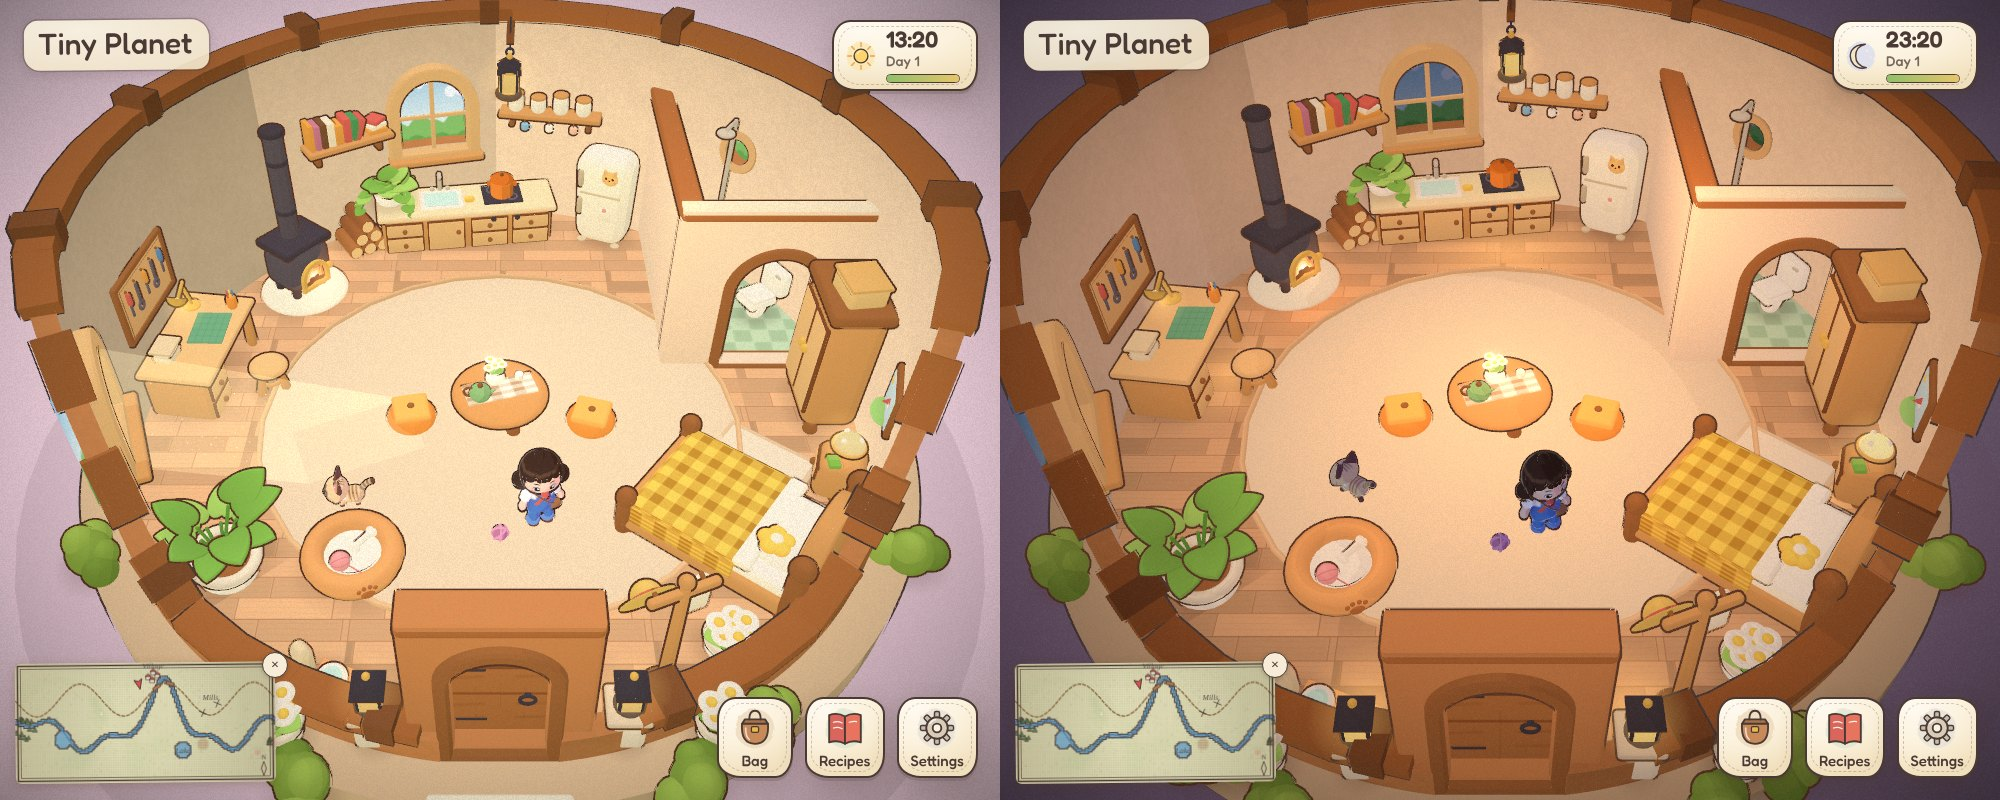
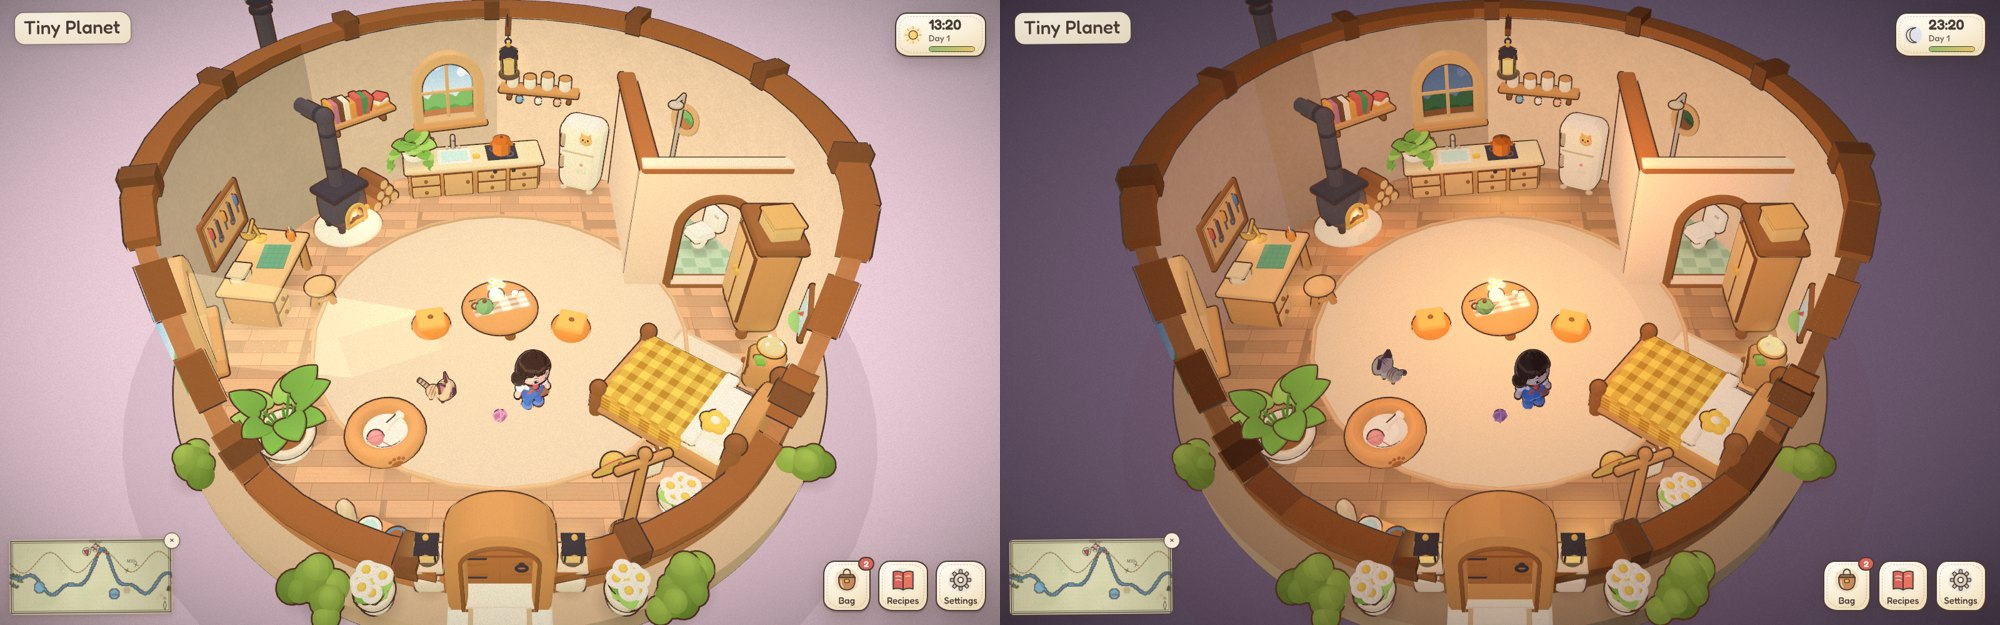
Home: concept-style entrance, stove flue through the wall, tidy-ups
Entrance redone after the concept and made smaller (door 0.5 tall, was
0.58): a snug fat wooden arch frame on a stone threshold, a round-topped
plank door with a glowing four-pane window, iron straps and a ring
knocker, lantern posts on stacked cream stones hugging the frame, two wide
stone steps with a doormat, daisy pots and bushes either side.

Wood stove: the logs sit right beside it; its pipe now elbows back through
the wall into a capped chimney outside, with wood smoke curling out.

Tidy: the bath partition no longer pokes out past the round wall, the
window views stay inside the wall, the table vase is daisies only.
Debug: ?homecam=x,y,z,lx,ly,lz points the room camera anywhere.

Claude-Session: https://claude.ai/code/session_01CNaBwL7WGoZ8QVtCgzA9vc

diff --git a/src/home/interior.jsx b/src/home/interior.jsx
@@ -32,8 +32,9 @@ export const local = (pl, lx, lz) => { const c = Math.cos(pl.yaw), s = Math.sin(
 const P = {}
 P.counter = against(-8, 0.9, 0.27)
 P.fridge = against(23, 0.28, 0.22)
-P.firewood = against(-31, 0.26, 0.2)
 P.stove = against(-50, 0.42, 0.42)
+P.firewood = (() => { const [x, z] = local(P.stove, 0.31, -0.06); return { x, z, yaw: P.stove.yaw } })() // tucked right beside the stove
+export const FLUE = 0.39 // stove pipe: back through the wall to a chimney outside
 P.desk = against(-82, 0.56, 0.32)
 P.bigPlant = against(-131, 0.34, 0.34)
 P.petBowls = against(-158, 0.36, 0.14)
@@ -56,7 +57,7 @@ P.toilet = against(63, 0.16, 0.22)
 // walls: windows, shelves, pictures
 const KW = -13, LW = -112, PORT = 47
 P.kitchenWindow = onWall(KW, 0.4); P.leftWindow = onWall(LW, 0.4)
-P.jarShelf = onWall(10, 0.62, 0.5); P.bookShelf = onWall(-31, 0.58, 0.44); P.pegboard = onWall(-82, 0.36, 0.42)
+P.jarShelf = onWall(10, 0.62, 0.5); P.bookShelf = onWall(-37, 0.6, 0.44); P.pegboard = onWall(-82, 0.36, 0.42)
 P.picture = onWall(109, 0.42, 0.22); P.towelRail = { x: NOOK.x0 + 0.03, y: 0.32, z: -0.72, yaw: Math.PI / 2 }
 export const LAYOUT = P
 
@@ -65,7 +66,7 @@ export const OPEN = [
   { phi: LW, w: 0.34, y0: 0.4, ys: 0.62, arch: true }, // sunny window, left
   { phi: KW, w: 0.36, y0: 0.42, ys: 0.64, arch: true }, // kitchen window
   { phi: PORT, w: 0.15, y0: 0.56, ys: 0.7, round: true }, // bath porthole
-  { phi: 180, w: 0.34, y0: 0, ys: 9 }, // the doorway (the door has its own arched wall)
+  { phi: 180, w: 0.38, y0: 0, ys: 9 }, // the doorway (the door has its own arched frame)
 ]
 // spots other modules use (activities, the cat): all in room x/z
 const cook = local(P.counter, 0.19, 0), sink = local(P.counter, -0.12, 0), cookStand = local(P.counter, 0.19, 0.36)
@@ -142,7 +143,7 @@ function capBlocks() {
   for (let i = 1; i <= N; i++) { const p = ring[i % N]; acc += Math.hypot(p.x - ring[(i - 1) % N].x, p.z - ring[(i - 1) % N].z)
     if (acc < 0.2 && i < N) continue
     const ax = last.x - last.nx * T_ / 2, az = last.z - last.nz * T_ / 2, bx = p.x - p.nx * T_ / 2, bz = p.z - p.nz * T_ / 2, mx = (ax + bx) / 2, mz = (az + bz) / 2
-    if (!(mz > 0.5 && Math.abs(mx) < 0.34)) { const L = Math.hypot(bx - ax, bz - az), ha = wallH(last.z), hb = wallH(p.z)
+    if (!(mz > 0.5 && Math.abs(mx) < 0.22)) { const L = Math.hypot(bx - ax, bz - az), ha = wallH(last.z), hb = wallH(p.z)
       out.push({ p: [mx, (ha + hb) / 2 + 0.025, mz], s: [L + 0.012, 0.055, T_ + 0.045], rot: [0, Math.atan2(-(bz - az), bx - ax), Math.atan2(hb - ha, L)], post: k % 4 === 0 }) }
     last = p; acc = 0; k++ }
   return out
@@ -229,11 +230,20 @@ function NookTiles() {
 export function DoorWay() {
   const leaf = useRef()
   useFrame((_, dt) => { if (leaf.current) leaf.current.rotation.y += ((HOME.doorOpen ? 1.25 : 0) - leaf.current.rotation.y) * Math.min(1, dt * 6) })
-  const { x, z, w } = DOOR
+  const { x, z, w, h } = DOOR, zc = z + 0.035 // centred in the wall's thickness
   return <group>
-    <Prop id="archWall" opts={{ w: 0.54, h: 0.7, d: 0.1, openW: w + 0.01, openH: DOOR.h - w / 2 }} position={[x, 0, z - 0.03]} />
-    <group ref={leaf} position={[x - w / 2, 0, z - 0.06]}><Prop id="doorLeaf" opts={{ w, h: DOOR.h }} position={[w / 2, 0, 0]} /></group>
+    <Prop id="doorFrame" opts={{ w, h, f: 0.05, d: 0.12 }} position={[x, 0, zc]} />
+    <group ref={leaf} position={[x - w / 2, 0, zc - 0.03]}><Prop id="doorLeaf" opts={{ w, h }} position={[w / 2, 0, 0]} /></group>
   </group>
+}
+// wood smoke curling out of the chimney outside
+const smokeTex = (() => { let t; return () => { if (t) return t; const c = document.createElement('canvas'); c.width = c.height = 64; const x = c.getContext('2d'), g = x.createRadialGradient(32, 32, 2, 32, 32, 30); g.addColorStop(0, 'rgba(255,255,255,.95)'); g.addColorStop(0.6, 'rgba(255,255,255,.5)'); g.addColorStop(1, 'rgba(255,255,255,0)'); x.fillStyle = g; x.fillRect(0, 0, 64, 64); t = new THREE.CanvasTexture(c); return t } })()
+export function Smoke() {
+  const ref = useRef(), [cx, cz] = local(P.stove, 0, -0.02 - FLUE), y0 = 1.37
+  const puffs = useMemo(() => [...Array(7)].map((_, i) => ({ m: new THREE.SpriteMaterial({ map: smokeTex(), color: '#a89aa2', transparent: true, depthWrite: false, opacity: 0 }), o: i / 7 })), [])
+  useFrame(() => { const t = performance.now() / 1000, g = ref.current; if (!g) return
+    g.children.forEach((sp, i) => { const p = puffs[i], u = (t * 0.22 + p.o) % 1; sp.position.set(Math.sin(u * 4 + i) * 0.04 + u * 0.12, u * 0.55, Math.cos(u * 3 + i) * 0.03 - u * 0.05); sp.scale.setScalar(0.06 + u * 0.16); p.m.opacity = Math.min(1, u * 6) * (1 - u) * 0.85 * (1 - 0.4 * T.night) }) })
+  return <group ref={ref} position={[cx, y0, cz]}>{puffs.map((p, i) => <sprite key={i} material={p.m} />)}</group>
 }
 
 // ---------- everything static, placed ----------
@@ -243,7 +253,7 @@ export function Shell() {
   return <>
     <Walls /><NookTiles />
     <Prop id="counter" {...at(P.counter)} />
-    <Prop id="fridge" {...at(P.fridge)} /><Prop id="firewood" {...at(P.firewood)} /><Prop id="woodStove" {...at(P.stove)} />
+    <Prop id="fridge" {...at(P.fridge)} /><Prop id="firewood" {...at(P.firewood)} /><Prop id="woodStove" {...at(P.stove)} opts={{ flue: FLUE }} />
     <Prop id="jarShelf" {...at(P.jarShelf)} /><Prop id="bookShelf" {...at(P.bookShelf)} />
     <Prop id="archWindow" {...at(P.kitchenWindow)} opts={{ w: 0.36, h: 0.4 }} /><Prop id="archWindow" {...at(P.leftWindow)} opts={{ w: 0.34, h: 0.39 }} />
     <Prop id="desk" {...at(P.desk)} /><Prop id="pegboard" {...at(P.pegboard)} /><Prop id="stool" {...at(P.stool)} />
@@ -253,15 +263,15 @@ export function Shell() {
     <Prop id="wardrobe" {...at(P.wardrobe)} /><Prop id="nightstand" {...at(P.nightstand)} /><Prop id="bed" {...at(P.bed)} /><Prop id="runner" {...at(P.runner)} />
     <Prop id="picture" {...at(P.picture)} /><Prop id="coatStand" {...at(P.coatStand)} />
     {/* bath nook: partition (plain side wall + arched front), tub, loo, towel, porthole frame */}
-    <Prop id="wallPanel" opts={{ w: 1.06, h: 0.8, d: 0.06 }} position={[NOOK.x0, 0, NOOK.z1 - 0.53]} rotation-y={Math.PI / 2} />
+    <Prop id="wallPanel" opts={{ w: 0.97, h: 0.8, d: 0.06 }} position={[NOOK.x0, 0, NOOK.z1 - 0.485]} rotation-y={Math.PI / 2} />
     <Prop id="archWall" opts={{ w: nookFront, h: 0.8, d: 0.06, openW: 0.36, openH: 0.42 }} pal={{ wall: '#f8dcc4' }} position={[NOOK.x0 + nookFront / 2 - 0.03, 0, NOOK.z1]} />
     <Prop id="tub" {...at(P.tub)} /><Prop id="toilet" {...at(P.toilet)} /><Prop id="towelRail" {...at(P.towelRail)} />
     {(() => { const pl = onWall(PORT, 0); return <group position={[pl.x, (OPEN[2].y0 + OPEN[2].ys) / 2, pl.z]} rotation-y={pl.yaw}><O geo={GEO.tor} mat={tm(W.light)} scale={[0.082, 0.082, 0.06]} out={OUT.fine} /></group> })()}
-    {/* front: lantern posts on the rim, steps, daisy pots and bushes outside */}
-    {[-1, 1].map(s => { const [x, z] = polar(180 + s * 15, R + 0.02); return <Prop key={s} id="lanternPost" position={[x, 0, z]} /> })}
-    <Prop id="steps" position={[0, 0, R + 0.16]} />
-    {[-1, 1].map(s => { const [x, z] = polar(180 + s * 25, R + 0.13); return <Prop key={'f' + s} id="flowerPot" position={[x, 0, z]} /> })}
-    {[[-150, 0.18], [150, 0.18], [-118, 0.2], [118, 0.2], [-200, 0.25], [200, 0.25]].map(([a, d], i) => { const [x, z] = polar(a, R + d); return <Prop key={'b' + i} id="bush" position={[x, -0.02, z]} rotation-y={i} /> })}
+    {/* front entrance, as in the concept: lantern posts hugging the door frame, stone steps with a mat, daisy pots, bushes */}
+    {[-1, 1].map(s => { const [x, z] = polar(180 + s * 10.5, R + 0.03); return <Prop key={s} id="lanternPost" position={[x, 0, z]} /> })}
+    <Prop id="steps" position={[0, 0, R + 0.08]} />
+    {[-1, 1].map(s => { const [x, z] = polar(180 + s * 17, R + 0.17); return <Prop key={'f' + s} id="flowerPot" position={[x, 0, z]} rotation-y={s} /> })}
+    {[[-154, 0.2, 1], [154, 0.2, 1], [-125, 0.2, 0.9], [125, 0.2, 0.9], [-203, 0.24, 0.8], [203, 0.24, 0.8]].map(([a, d, k], i) => { const [x, z] = polar(a, R + d); return <Prop key={'b' + i} id="bush" position={[x, -0.02, z]} rotation-y={i} scale={k} /> })}
   </>
 }
 // the hanging lantern: a bracket out of the back wall, the lantern sways from its tip (Room.jsx)

diff --git a/src/props/items/house.js b/src/props/items/house.js
@@ -108,16 +108,27 @@ defineProp('coatStand', { name: 'Coat stand', size: [0.26, 0.62, 0.12], tags: ['
   k.pill([0.09, 0.008], [0.08, 0.49, 0.06], 'hat', { rot: [1.25, 0, 0], bevel: 0.5 }); k.dome(0.05, [0.08, 0.493, 0.064], 'hat', { rot: [1.25, 0, 0] }); k.pill([0.051, 0.012], [0.08, 0.497, 0.067], 'band', { rot: [1.25, 0, 0], bevel: 0.3, out: false })
 })
 
-// an arched front door leaf: planks, a little window, ring knocker, iron straps. Hinge on its left edge at x = -w/2.
-defineProp('doorLeaf', { name: 'Door', size: [0.3, 0.58, 0.04], tags: ['entry'], pal: { wood: '#b0703f', plank: '#8a5634', pane: '#ffe2a6', iron: 'ironDark' }, opts: { w: 0.3, h: 0.58 } }, (k, o) => {
+// an arched front door leaf, as in the concept: vertical planks under a round top, a four-pane window in the upper
+// half, iron straps and a ring knocker. Hinge on its left edge at x = -w/2.
+defineProp('doorLeaf', { name: 'Door', size: [0.28, 0.5, 0.04], tags: ['entry'], pal: { wood: '#c07a44', plank: '#8a5634', pane: '#ffe2a6', mull: '#9a6038', iron: 'ironDark' }, opts: { w: 0.28, h: 0.5 } }, (k, o) => {
   const w = o.w, hr = o.h - w / 2
-  k.arch(w - 0.01, hr, 0.03, [0, 0, 0], 'wood', { bevel: 0.01, pattern: 'planks', tile: 1 })
-  for (const dx of [-0.075, 0, 0.075]) k.box([0.006, hr * 0.7, 0.004], [dx, hr * 0.35, 0.022], 'plank', { r: 0.002, out: false })
-  k.arch(0.13, 0.03, 0.01, [0, hr - 0.02, 0.018], 'pane', { glow: true, bevel: 0 })
-  k.box([0.012, 0.11, 0.012], [0, hr + 0.03, 0.026], 'plank', { r: 0.004, out: false }); k.box([0.13, 0.012, 0.012], [0, hr + 0.015, 0.026], 'plank', { r: 0.004, out: false })
-  k.archFrame(0.13, 0.03, 0.012, 0.01, [0, hr - 0.02, 0.024], 'plank', { out: false })
-  for (const y of [0.08, hr - 0.05]) k.box([0.1, 0.018, 0.008], [-w / 2 + 0.06, y, 0.022], 'iron', { r: 0.005, out: false })
-  k.ring(0.024, 0.006, [w * 0.28, hr * 0.5, 0.032], 'iron', { out: false }); k.ball(0.011, [w * 0.28, hr * 0.5 + 0.024, 0.026], 'iron', { out: false })
+  k.arch(w - 0.008, hr, 0.032, [0, 0, 0], 'wood', { bevel: 0.01, pattern: 'planks', tile: 1 })
+  for (const dx of [-w * 0.25, 0, w * 0.25]) k.box([0.005, hr * 0.62, 0.004], [dx, hr * 0.31, 0.023], 'plank', { r: 0.002, out: false })
+  // window: an arched opening with a cross of mullions (four warm panes)
+  const ww = w * 0.5, wy = hr - 0.02
+  k.arch(ww, 0.035, 0.006, [0, wy, 0.03], 'pane', { glow: true, bevel: 0 })
+  k.archFrame(ww, 0.035, 0.013, 0.012, [0, wy, 0.034], 'mull', { out: false })
+  k.box([0.012, 0.035 + ww / 2, 0.01], [0, wy + (0.035 + ww / 2) / 2, 0.037], 'mull', { r: 0.004, out: false }); k.box([ww, 0.012, 0.01], [0, wy + 0.045, 0.037], 'mull', { r: 0.004, out: false })
+  for (const y of [0.07, hr * 0.62]) k.box([w * 0.3, 0.016, 0.008], [-w / 2 + w * 0.17, y, 0.024], 'iron', { r: 0.005, out: false })
+  k.ring(0.022, 0.006, [w * 0.3, hr * 0.45, 0.034], 'iron', { out: false }); k.ball([0.012, 0.012, 0.008], [w * 0.3, hr * 0.45 + 0.022, 0.028], 'iron', { out: false })
+})
+
+// the door's surround: a fat rounded wooden arch hugging the door, on a stone threshold
+defineProp('doorFrame', { name: 'Door frame', size: [0.4, 0.56, 0.12], tags: ['entry', 'structure'], pal: { frame: '#d79a5c', inner: 'woodDark', sill: 'stone' }, opts: { w: 0.28, h: 0.5, f: 0.05, d: 0.11 } }, (k, o) => {
+  const hr = o.h - o.w / 2
+  k.archFrame(o.w + 0.004, hr, o.f, o.d, [0, 0, 0], 'frame')
+  k.archFrame(o.w - 0.004, hr, 0.012, o.d + 0.012, [0, 0, 0], 'inner', { out: false })
+  k.box([o.w + o.f * 2 + 0.03, 0.03, o.d + 0.05], [0, 0.0, 0.01], 'sill', { r: 0.012 })
 })
 
 // a chunky arched wall piece with a doorway (the front door's surround, or a room partition)
@@ -166,20 +177,23 @@ defineProp('petBowls', { name: 'Pet bowls', size: [0.36, 0.12, 0.14], tags: ['pe
 })
 
 // ---------- porch ----------
-defineProp('lanternPost', { name: 'Lantern post', size: [0.14, 0.36, 0.14], tags: ['outdoor', 'light'], pal: { stone: 'stone', cap: 'stoneDark', cage: 'ironDark', trim: 'brass', glass: '#ffd27a', core: '#fff3cf' } }, (k) => {
-  k.box([0.12, 0.16, 0.12], [0, 0.08, 0], 'stone', { r: 0.025, belly: 0.05 }); k.box([0.14, 0.022, 0.14], [0, 0.17, 0], 'cap', { r: 0.01 })
-  const y = 0.18; k.pill([0.05, 0.022], [0, y + 0.011, 0], 'cage', { bevel: 0.4 })
-  for (let i = 0; i < 4; i++) { const a = i / 4 * PI * 2; k.box([0.06, 0.085, 0.006], [Math.sin(a) * 0.037, y + 0.07, Math.cos(a) * 0.037], 'glass', { r: 0.002, rot: [0, a, 0], glow: true }) }
-  k.ball([0.02, 0.03, 0.02], [y * 0, y + 0.068, 0], 'core', { glow: true })
-  for (let i = 0; i < 4; i++) { const a = i / 4 * PI * 2 + PI / 4; k.stick([0.008, 0.096], [Math.sin(a) * 0.045, y + 0.07, Math.cos(a) * 0.045], 'cage') }
-  k.cone([0.074, 0.05], [0, y + 0.14, 0], 'cage', { n: 4, rot: [0, PI / 4, 0] }); k.ball(0.013, [0, y + 0.17, 0], 'trim', { out: false })
-  k.halo([0, y + 0.07, 0], 0.13, '#ffc870', { flicker: true })
+defineProp('lanternPost', { name: 'Lantern post', size: [0.13, 0.36, 0.13], tags: ['outdoor', 'light'], pal: { stone: 'stone', stone2: '#f4ebde', cap: 'stoneDark', cage: 'ironDark', trim: 'brass', glass: '#ffd27a', core: '#fff3cf' } }, (k) => {
+  k.box([0.12, 0.09, 0.12], [0, 0.045, 0], 'stone', { r: 0.022, belly: 0.05 }); k.box([0.105, 0.08, 0.105], [0, 0.128, 0], 'stone2', { r: 0.02, belly: 0.05 })
+  k.box([0.125, 0.02, 0.125], [0, 0.175, 0], 'cap', { r: 0.008 })
+  const y = 0.185; k.pill([0.045, 0.02], [0, y + 0.01, 0], 'cage', { bevel: 0.4 })
+  for (let i = 0; i < 4; i++) { const a = i / 4 * PI * 2; k.box([0.055, 0.075, 0.006], [Math.sin(a) * 0.033, y + 0.062, Math.cos(a) * 0.033], 'glass', { r: 0.002, rot: [0, a, 0], glow: true, belly: 0.06 }) }
+  k.ball([0.018, 0.026, 0.018], [0, y + 0.06, 0], 'core', { glow: true })
+  for (let i = 0; i < 4; i++) { const a = i / 4 * PI * 2 + PI / 4; k.stick([0.007, 0.086], [Math.sin(a) * 0.04, y + 0.062, Math.cos(a) * 0.04], 'cage') }
+  k.pill([0.048, 0.01], [0, y + 0.104, 0], 'trim', { bevel: 0.4, out: false })
+  k.cone([0.066, 0.045], [0, y + 0.128, 0], 'cage', { n: 4, rot: [0, PI / 4, 0] }); k.ball(0.012, [0, y + 0.155, 0], 'trim', { out: false })
+  k.halo([0, y + 0.06, 0], 0.13, '#ffc870', { flicker: true })
 })
 defineProp('bush', { name: 'Bush', size: [0.24, 0.16, 0.2], tags: ['outdoor', 'plant'], pal: { a: '#86a845', b: '#9bbb52', c: '#73953a' } }, (k) => {
   for (const [x, y, z, r, c] of [[0, 0.06, 0, 0.085, 'a'], [0.08, 0.045, 0.02, 0.065, 'b'], [-0.08, 0.045, 0.02, 0.065, 'c'], [0.02, 0.11, -0.02, 0.06, 'b'], [-0.04, 0.08, 0.05, 0.05, 'a']]) k.ball(r, [x, y, z], c)
 })
-defineProp('steps', { name: 'Stone steps', size: [0.56, 0.06, 0.3], tags: ['outdoor', 'entry'], pal: { a: 'stone', b: 'stoneDark' }, opts: { shadow: false } }, (k) => {
-  k.box([0.46, 0.06, 0.16], [0, -0.03, 0.08], 'a', { r: 0.02 }); k.box([0.56, 0.06, 0.15], [0, -0.085, 0.22], 'b', { r: 0.02 })
+defineProp('steps', { name: 'Stone steps', size: [0.5, 0.08, 0.32], tags: ['outdoor', 'entry'], pal: { a: '#f1e6d6', b: 'stoneDark', mat: '#fbf1e0', matEdge: '#e2c39a' }, opts: { shadow: false, mat: true } }, (k, o) => {
+  k.box([0.42, 0.05, 0.15], [0, -0.025, 0.075], 'a', { r: 0.02, belly: 0.03 }); k.box([0.5, 0.05, 0.15], [0, -0.07, 0.2], 'b', { r: 0.02, belly: 0.03 })
+  if (o.mat) { k.box([0.25, 0.008, 0.11], [0, 0.003, 0.075], 'matEdge', { r: 0.02, out: false, hi: 0 }); k.box([0.21, 0.01, 0.08], [0, 0.005, 0.075], 'mat', { r: 0.016, out: false, hi: 0 }) }
 })
 
 // a plain partition wall with a timber cap (pairs with archWall)

diff --git a/src/props/items/home.js b/src/props/items/home.js
@@ -36,7 +36,6 @@ defineProp('roundTable', { name: 'Round table', size: [0.42, 0.24, 0.42], tags: 
   for (let i = 0; i < 3; i++) { const a = i / 3 * PI * 2 + 0.5; k.stick([0.026, 0.13], [Math.sin(a) * 0.105, 0.055, Math.cos(a) * 0.105], 'leg', { rot: [-Math.cos(a) * 0.25, 0, Math.sin(a) * 0.25], taper: -0.25 }) }
   k.box([0.3, 0.01, 0.12], [0, 0.162, 0], 'cloth', { r: 0.004, rot: [0, 0.3, 0], pattern: 'gingham', tile: 3 })
   if (o.vase !== false) { k.pill([0.032, 0.05], [-0.02, 0.19, -0.04], 'white', { bevel: 0.45, belly: 0.25 })
-    k.leaf([-0.02, 0.22, -0.04], 0.05, 0.8, 0.7); k.leaf([-0.02, 0.22, -0.04], 0.045, -2.2, 0.6, 'leafLight')
     for (let i = 0; i < 5; i++) { const a = i * 1.3; k.daisy([-0.02 + Math.sin(a) * 0.03 * (i ? 1 : 0), 0.255 + (i % 2) * 0.014, -0.04 + Math.cos(a) * 0.03 * (i ? 1 : 0)], 0.026) } }
 })
 
@@ -52,7 +51,7 @@ defineProp('stool', { name: 'Stool', size: [0.16, 0.14, 0.16], tags: ['living'],
   k.ring(0.042, 0.009, [0, 0.05, 0], 'leg', { rot: [PI / 2, 0, 0], out: false })
 })
 
-defineProp('woodStove', { name: 'Wood stove', size: [0.42, 0.9, 0.42], tags: ['kitchen', 'warm', 'light'], pal: { body: 'iron', dark: 'ironDark', hearth: 'stone', trim: 'brass' } }, (k) => {
+defineProp('woodStove', { name: 'Wood stove', size: [0.42, 0.9, 0.42], tags: ['kitchen', 'warm', 'light'], pal: { body: 'iron', dark: 'ironDark', hearth: 'stone', trim: 'brass' }, opts: { flue: 0 } }, (k, o) => {
   k.pill([0.21, 0.03], [0, 0.015, 0.02], 'hearth', { bevel: 0.45, seg: 32 })
   for (const sx of [-1, 1]) for (const sz of [-1, 1]) k.pill([0.02, 0.05], [sx * 0.08, 0.055, sz * 0.06], 'dark', { bevel: 0.4, taper: -0.3 })
   k.box([0.24, 0.22, 0.2], [0, 0.18, 0], 'body', { r: 0.06, belly: 0.1 })
@@ -67,10 +66,16 @@ defineProp('woodStove', { name: 'Wood stove', size: [0.42, 0.9, 0.42], tags: ['k
   k.archFrame(0.13, 0.04, 0.014, 0.012, [0, 0.1, 0.12], 'trim', { out: false })
   k.knob([0.095, 0.15, 0.112], 'trim', 0.018)
   k.halo([0, 0.15, 0.17], 0.17, '#ffa050', { flicker: true })
-  // chimney with collars
-  k.pill([0.042, 0.52], [0, 0.57, -0.02], 'body', { bevel: 0.03 })
-  for (const y of [0.45, 0.7]) k.pill([0.05, 0.025], [0, y, -0.02], 'dark', { bevel: 0.3, out: false })
-  k.pill([0.052, 0.03], [0, 0.84, -0.02], 'dark', { bevel: 0.3 })
+  // flue: up from the stove, then (opts.flue > 0) an elbow back through the wall and a chimney outside with a cap
+  const fl = o.flue || 0, top = fl ? 0.76 : 0.84
+  k.pill([0.042, top - 0.31], [0, 0.31 + (top - 0.31) / 2, -0.02], 'body', { bevel: 0.03 })
+  for (const y of [0.45, 0.66]) k.pill([0.05, 0.025], [0, y, -0.02], 'dark', { bevel: 0.3, out: false })
+  if (!fl) k.pill([0.052, 0.03], [0, 0.84, -0.02], 'dark', { bevel: 0.3 })
+  else { k.ball(0.05, [0, top, -0.02], 'body')
+    k.pill([0.042, fl], [0, top, -0.02 - fl / 2], 'body', { rot: [PI / 2, 0, 0], bevel: 0.03 }); k.pill([0.052, 0.025], [0, top, -0.06], 'dark', { rot: [PI / 2, 0, 0], bevel: 0.3, out: false })
+    k.ball(0.05, [0, top, -0.02 - fl], 'body'); k.pill([0.042, 0.52], [0, top + 0.26, -0.02 - fl], 'body', { bevel: 0.03 })
+    k.pill([0.056, 0.03], [0, top + 0.5, -0.02 - fl], 'dark', { bevel: 0.3 }); k.cone([0.075, 0.06], [0, top + 0.57, -0.02 - fl], 'dark', { n: 4, rot: [0, PI / 4, 0] })
+    for (const s of [-1, 1]) k.stick([0.006, 0.05], [s * 0.04, top + 0.53, -0.02 - fl], 'dark', { out: false }) }
 })
 
 defineProp('fridge', { name: 'Fridge', size: [0.28, 0.5, 0.22], tags: ['kitchen'], pal: { body: 'cream', seam: '#d9c6a6', handle: '#cdbb9e', cat: '#f7c97a', ear: '#f2a8a0' } }, (k) => {

diff --git a/src/home/Room.jsx b/src/home/Room.jsx
@@ -10,7 +10,7 @@ import { HOME, ROOM, DOOR, resolve, freeAt, roomToWorld } from './state.js'
 import { O, Merge, GEO, tm, OUT, canvasTex } from './kit.jsx'
 import { T, q, VIEW, setViewMode } from '../common.jsx'
 import { R, height } from '../world.js'
-import { W, Box, Shell, Floor, Backdrop, Windows, Sunbeam, DoorWay, LAMP, LAYOUT } from './interior.jsx'
+import { W, Box, Shell, Floor, Backdrop, Windows, Sunbeam, DoorWay, Smoke, LAMP, LAYOUT } from './interior.jsx'
 import { Prop } from '../props/Prop.jsx'
 import { PAD, CAM } from '../touch.jsx'
 import { G, emit, toast } from '../game/store.js'
@@ -72,6 +72,7 @@ const _q = new THREE.Quaternion(), _q2 = new THREE.Quaternion(), _X = new THREE.
 // clip a wall), easing after her and leaning toward the cat when he's close. Zoom / pitch from the touch + wheel controls.
 const camL = new THREE.Vector3(), lookL = new THREE.Vector3(), _goal = new THREE.Vector3(), _look = new THREE.Vector3()
 const WIDE = q.get('homecam') === 'wide' // debug: the whole room, concept-style
+const FREECAM = /,/.test(q.get('homecam') || '') ? q.get('homecam').split(',').map(Number) : null // debug: ?homecam=x,y,z,lookX,lookY,lookZ (room units)
 let fov0 = null
 HOME.camera = (camera, g, dt) => {
   if (!HOME.inside && HOME.snapOut > 0) { window.__snap = true; if (--HOME.snapOut === 0) setTimeout(() => { window.__snap = HOME.snap0 }, 0) } // land the follow camera behind her at once
@@ -85,8 +86,9 @@ HOME.camera = (camera, g, dt) => {
   _look.set(Math.max(-1.2, Math.min(1.2, fx)) * 0.8, 0.14 + CAT.y * w * 0.5, Math.max(-1.0, Math.min(1.3, fz)) * 0.85 - 0.04)
   _goal.set(_look.x * 0.7, _look.y + Math.sin(el) * D, _look.z + Math.cos(el) * D)
   if (WIDE) { _look.set(0, 0.0, -0.05); _goal.set(0, 3.7, 3.7) }
+  if (FREECAM) { _goal.set(FREECAM[0], FREECAM[1], FREECAM[2]); _look.set(FREECAM[3], FREECAM[4], FREECAM[5]) }
   if (PETCAM) { const a = window.__camA ?? (+PETCAM || 0.5), dd = window.__camD ?? 0.55; _goal.set(CAT.x + Math.sin(a) * dd, CAT.y + (window.__camH ?? 0.32 * dd / 0.55 * 0.8 + 0.06), CAT.z + Math.cos(a) * dd); _look.set(CAT.x, CAT.y + 0.07, CAT.z) }
-  const ps = HOME.pose; if (ps && !PETCAM && !WIDE && ps.cam !== false) { const pk = Math.min(1, ps.k) // activities frame the bed / tub / desk ...
+  const ps = HOME.pose; if (ps && !PETCAM && !WIDE && !FREECAM && ps.cam !== false) { const pk = Math.min(1, ps.k) // activities frame the bed / tub / desk ...
     if (ps.cam && ps.cam.p) { _goal.lerp(_a.fromArray(ps.cam.p), pk); _look.lerp(_b.fromArray(ps.cam.l), pk) }
     else { _b.set(ps.x * 0.85, 0.16 + (ps.y || 0), ps.z - 0.04); _look.lerp(_b, pk); _goal.lerp(_a.set(_b.x * 0.8, _b.y + 1.25, _b.z + 1.1), pk) } }
   const k = snapFrames > 0 ? 1 : 1 - Math.exp(-dt * 2.0); snapFrames-- // polish: softer interior cam
@@ -161,7 +163,7 @@ export function Room() {
   })
   const onDown = (e) => { if (!HOME.inside) return; e.stopPropagation(); const l = ref.current.worldToLocal(e.point.clone()); HOME.hp.target = { x: l.x, z: l.z } }
   return <group ref={ref} visible={HOME.inside} scale={ROOM.S}>
-    <Backdrop /><Floor onDown={onDown} /><Windows /><Sunbeam /><DoorWay /><Lamp /><NightGlow />
+    <Backdrop /><Floor onDown={onDown} /><Windows /><Sunbeam /><DoorWay /><Smoke /><Lamp /><NightGlow />
     <Merge><Shell /></Merge>
     <React.Suspense fallback={null}><Activities /></React.Suspense>
     <InsideDecor />

diff --git a/src/home/state.js b/src/home/state.js
@@ -7,7 +7,7 @@ import { q, VIEW } from '../common.jsx'
 // Round9 interior: a ROUND room (|x/A|^n + |z/B|^n = 1 with A = B, n = 2) seen from above its low front rim, furnished
 // with the chibi prop kit. Sized to her (she is ~0.39 room units tall): door 0.58, counter 0.24, bed top 0.16.
 export const ROOM = { A: 1.5, B: 1.5, n: 2, x0: -1.5, x1: 1.5, z0: -1.5, z1: 1.5, h: 1.05, rim: 0.13, y: 0, S: 1.25 } // S: the room group's scale (room units -> planet units)
-export const DOOR = { x: 0, z: 1.5, w: 0.3, h: 0.58 } // in the front rim, facing the camera (camera looks toward -z)
+export const DOOR = { x: 0, z: 1.5, w: 0.28, h: 0.5 } // in the front rim, facing the camera (camera looks toward -z)
 // wall height round the room: full at the back, sloping down to the low front rim (the cut-away)
 export const wallH = (z) => { const k = Math.min(1, Math.max(0, (z - 0.5) / 0.65)); return ROOM.h + (ROOM.rim - ROOM.h) * k * k * (3 - 2 * k) }
 // furniture footprints (room-local x/z boxes) used for her collision, the cat's steering and placement checks;
